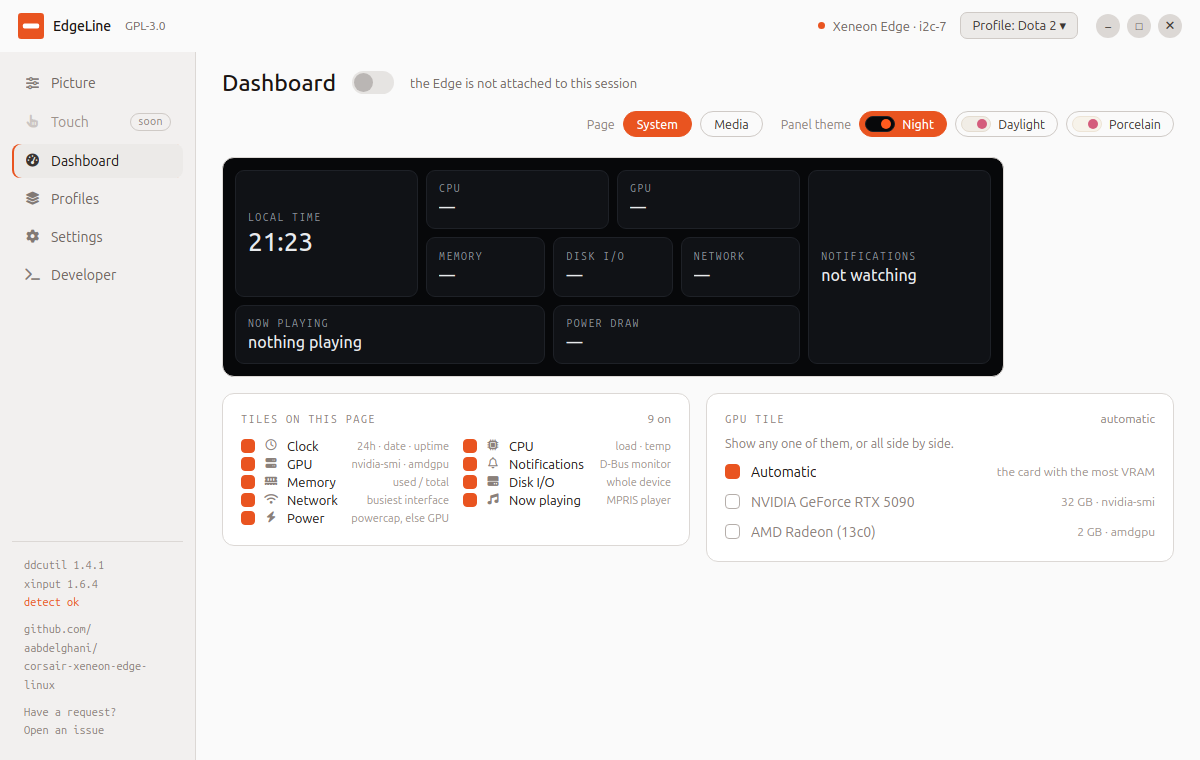
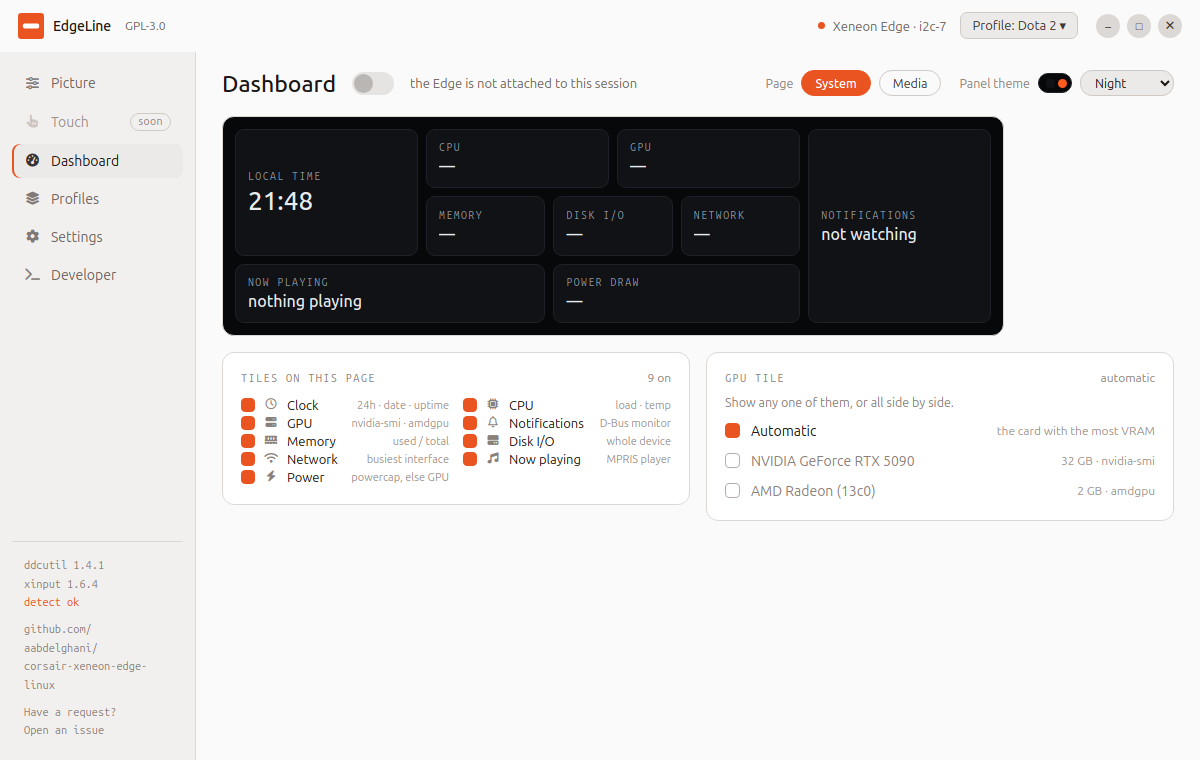
Five panel themes in a dropdown: Porcelain back, Forest added
The Dashboard page picks the panel theme from a list now, with a swatch
of the chosen theme's ground, card and accent beside it. Five chips no
longer fit the fixed-height page's header.

Porcelain is back, as the deep tan it was before it turned green, and
Sage keeps the fern green under its own id. Forest is new: dark green
with pink text, which the measurements showed is the only way pink text
reads on green. Light pink on the fern green reached 1.3 to 1.7:1.

Forest: ground #1C3326, cards #2A4735 (1.32:1 off the ground), rows
#253F2F. Light pink text 6.6:1, secondary 4.9, kicker 4.7, app label
5.4, hot pink accent 3.9 with dark badge text on it at 5.2, mint lines
5.7, borders lighter than the dark surfaces they outline.

Restoring Porcelain also fixes its power line, which had stayed on the
original light green; it matches the rest of that theme's lines now.

A saved "porcelain" choice, which had been showing Sage, now shows
Porcelain again.

diff --git a/ui/renderer/dashboard.css b/ui/renderer/dashboard.css
@@ -56,19 +56,31 @@
   --btn-line: #DCD4C8;  --btn-bg: transparent;
   --power-line: #4E8C6A; --power-opacity: 1;  --stroke: 1.4;
 }
-/* Sage, shown under that name; the id stays "porcelain" so a saved choice
-   still finds it. Now a fern green, greener and darker than the grey sage it
-   was: ground #6F9066, cards #86A67C, rows #7A9B70, cards 1.32:1 off the
-   ground. This is about as dark as dark text allows. Measured one step
-   further, ink has to go to pure black to pass, and two steps further it
-   cannot pass at all while light text fails on the cards, so going darker
-   again means flipping the theme to light text.
-   Inks are green-tinted darks, each darkened until it cleared its WCAG
-   minimum on every surface it sits on, plus margin (worst case): ink 4.9,
-   secondary and kicker 4.9, rose app label 4.8, rose accent 3.3 for the large
-   clock seconds, badge text on it 8.6. The second line colour is deep teal,
-   3.2, because green would vanish on a green ground. */
+/* Every theme below has each ink measured against every surface it sits on
+   (WCAG ratios, worst case, with margin): body text and small labels past 4.5,
+   the large clock seconds and the lines past 3, borders a visible step off
+   what they outline. Change a surface and the inks on it need measuring again. */
+
+/* Porcelain: deep tan ground #A89878, cards #BCAE90, rows #B2A384. Ink 5.8,
+   secondary and kicker 4.9, rose app label 4.9, rose accent 3.3, badge text
+   7.0, green lines 3.4 on rows and 3.8 on cards. */
 :root[data-theme="porcelain"] {
+  --bg: #A89878;        --card: #BCAE90;      --line: #9E8E6C;
+  --text: #221F1C;      --kicker: #3A352E;    --text2: #3B352F;
+  --accent: #8F3A53;    --on-accent: #FDFAF4; --spark2: #2A563E;
+  --app: #5E2035;       --item: #B2A384;      --item-line: #9E8E6C;
+  --item-edge: #2A563E; --track: #A89877;     --media-fill: #2A563E;
+  --art: #B2A384;       --art-line: #9E8E6C;
+  --btn-line: #9E8E6C;  --btn-bg: #BCAE90;
+  --power-line: #2A563E; --power-opacity: 1;  --stroke: 1.6;
+}
+
+/* Sage: fern green ground #6F9066, cards #86A67C, rows #7A9B70. About as dark
+   as dark text allows: one step further the ink has to be pure black, two steps
+   further dark text cannot pass at all, which is why Forest is a separate,
+   light-on-dark theme rather than a darker Sage. Ink, secondary and kicker 4.9,
+   rose app label 4.8, rose accent 3.3, badge text 8.6, deep teal lines 3.2. */
+:root[data-theme="sage"] {
   --bg: #6F9066;        --card: #86A67C;      --line: #648460;
   --text: #161B17;      --kicker: #21281E;    --text2: #20281D;
   --accent: #793146;    --on-accent: #FDFAF4; --spark2: #204756;
@@ -77,6 +89,22 @@
   --art: #7A9B70;       --art-line: #5F7D57;
   --btn-line: #5F7D57;  --btn-bg: #86A67C;
   --power-line: #204756; --power-opacity: 1;  --stroke: 1.6;
+}
+
+/* Forest: dark green with pink text, the one way pink text reads on green.
+   Ground #1C3326, cards #2A4735 (1.32:1 off the ground), rows #253F2F. Light
+   pink text 6.6, secondary 4.9, kicker 4.7, app label 5.4, hot pink accent 3.9
+   with dark badge text on it at 5.2, mint lines 5.7. Borders sit lighter than
+   the dark surfaces they outline. */
+:root[data-theme="forest"] {
+  --bg: #1C3326;        --card: #2A4735;      --line: #456A50;
+  --text: #F4C2D3;      --kicker: #D4A3B5;    --text2: #DDA4B8;
+  --accent: #FF6F9F;    --on-accent: #1C3326; --spark2: #7FD1A8;
+  --app: #FF8FB4;       --item: #253F2F;      --item-line: #3F6149;
+  --item-edge: #7FD1A8; --track: #3F6149;     --media-fill: #7FD1A8;
+  --art: #253F2F;       --art-line: #3F6149;
+  --btn-line: #456A50;  --btn-bg: #2A4735;
+  --power-line: #7FD1A8; --power-opacity: 1;  --stroke: 1.6;
 }
 
 :root { --mono: 'IBM Plex Mono', ui-monospace, monospace; }

diff --git a/ui/renderer/page-dashboard.js b/ui/renderer/page-dashboard.js
@@ -9,9 +9,12 @@ const DASH_THEMES = [
     bg: '#07080A', card: '#101216', line: '#1E2127', text: '#E8EAED', kicker: '#8F969E', accent: '#FF5B1E' },
   { id: 'daylight', label: 'Daylight',
     bg: '#F1EDE6', card: '#FFFCF7', line: '#E4DCD0', text: '#2A2622', kicker: '#6B6459', accent: '#D45C7C' },
-  // Shown as Sage; the id stays so a saved choice still finds it.
-  { id: 'porcelain', label: 'Sage',
+  { id: 'porcelain', label: 'Porcelain',
+    bg: '#A89878', card: '#BCAE90', line: '#9E8E6C', text: '#221F1C', kicker: '#3A352E', accent: '#8F3A53' },
+  { id: 'sage', label: 'Sage',
     bg: '#6F9066', card: '#86A67C', line: '#648460', text: '#161B17', kicker: '#21281E', accent: '#793146' },
+  { id: 'forest', label: 'Forest',
+    bg: '#1C3326', card: '#2A4735', line: '#456A50', text: '#F4C2D3', kicker: '#D4A3B5', accent: '#FF6F9F' },
 ];
 
 const dashUi = {
@@ -238,21 +241,25 @@ function pageChips() {
 }
 
 function themeChips() {
+  // A dropdown now there are five themes: a chip for each no longer fits the
+  // fixed-height page's header. The swatch beside it shows the chosen theme's
+  // ground, card and accent, since a list of names alone says little.
+  const t = DASH_THEMES.find((x) => x.id === dashUi.theme) || DASH_THEMES[0];
   return el('div', { style: 'display:flex;align-items:center;gap:8px' },
     el('div', { style: 'font-size:12.5px;color:var(--text4)' }, 'Panel theme'),
-    ...DASH_THEMES.map((t) => el('button', {
-      class: `chip${dashUi.theme === t.id ? ' on' : ''}`,
-      style: 'padding:4px 12px 4px 5px;border-radius:14px;font-size:12.5px;'
-           + 'display:flex;align-items:center;gap:7px',
-      onclick: () => setDashTheme(t.id),
+    el('span', {
+      style: `width:34px;height:20px;border-radius:10px;flex:none;background:${t.bg};`
+           + `border:1px solid ${t.line};display:flex;align-items:center;gap:3px;`
+           + 'justify-content:flex-end;padding-right:4px;box-sizing:border-box',
     },
-      el('span', {
-        style: `width:30px;height:16px;border-radius:8px;flex:none;background:${t.bg};`
-             + `border:1px solid ${t.line};display:flex;align-items:center;justify-content:flex-end;padding-right:3px;box-sizing:border-box`,
-      }, el('span', {
-        style: `width:10px;height:10px;border-radius:50%;background:${t.accent}`,
-      })),
-      t.label)));
+      el('span', { style: `width:9px;height:9px;border-radius:3px;background:${t.card}` }),
+      el('span', { style: `width:9px;height:9px;border-radius:50%;background:${t.accent}` })),
+    el('select', {
+      style: 'background:var(--sunken);border:1px solid var(--border2);border-radius:12px;'
+           + 'padding:4px 10px;color:var(--text);font-family:inherit;font-size:12.5px;outline:none;cursor:pointer',
+      onchange: (e) => setDashTheme(e.target.value),
+    }, ...DASH_THEMES.map((x) =>
+      el('option', { value: x.id, selected: x.id === dashUi.theme || null }, x.label))));
 }
 
 PAGES.dashboard = (host) => {

diff --git a/ui/renderer/dashboard.js b/ui/renderer/dashboard.js
@@ -19,7 +19,7 @@ let layout = { tiles: {} };
 
 // ------------------------------------------------------------------- theme
 
-const THEMES = ['night', 'daylight', 'porcelain'];
+const THEMES = ['night', 'daylight', 'porcelain', 'sage', 'forest'];
 // Theme, page and tile visibility are saved by the main process, in a file
 // written the moment they change, and handed to this window through appInfo.
 // That matters at login, when the panel opens with no control window and still

diff --git a/README.md b/README.md
@@ -76,15 +76,19 @@ disk throughput with how full the root filesystem is, network in bits, what is
 playing with previous, play and pause, and next, a power draw sparkline, and
 desktop notifications as they arrive.
 
-Three themes, picked on the Dashboard page and remembered: Night (graphite and
-ember, above), Daylight (cream ground, white cards) and Sage (green ground,
-lighter green cards). Two pages, also picked there: System, above, and
+Five themes, picked from a list on the Dashboard page and remembered: Night
+(graphite and ember, above), Daylight (cream ground, white cards), Porcelain
+(deep tan), Sage (fern green) and Forest (dark green, pink text). Two pages, also picked there: System, above, and
 Media, which gives now playing and notifications the room. The panel itself
 carries no switcher.
 
 ![Daylight theme](docs/panel-daylight.png)
 
+![Porcelain theme](docs/panel-porcelain.png)
+
 ![Sage theme](docs/panel-sage.png)
+
+![Forest theme](docs/panel-forest.png)
 
 ![Media page](docs/panel-media.png)
 
